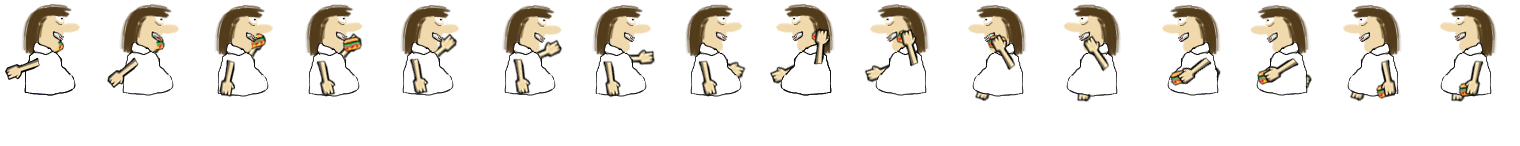
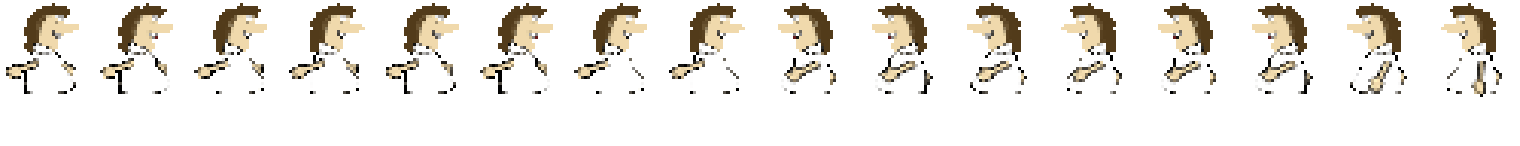
skjutanimation och molotovcocktailskott

diff --git a/DrunkiBoy/DrunkiBoy/Level/Player.cs b/DrunkiBoy/DrunkiBoy/Level/Player.cs
@@ -317,27 +317,33 @@ namespace DrunkiBoy
                 }
                 else //Högeråt
                 {
-                    bulletPos = new Vector2(pos.X + 60, pos.Y + 35);
+                    bulletPos = new Vector2(pos.X + 60, pos.Y + 60);
                     bulletVelocity = new Vector2(10, 0);
                     frame = 0;
                 }
                 switch (currentWeapon)
                 {
                     case weaponType.burger:
-                        texUpperBody = Textures.player_burger_shooting;
+                        texUpperBody = Textures.player_shooting;
                         animateShooting = true;
                         BulletManager.AddBullet(new HamburgareVapen(bulletPos, bulletVelocity));
                     break;
-                    case weaponType.pizza:
-                    BulletManager.AddBullet(new PizzaWeapon(bulletPos, bulletVelocity));
 
+                    case weaponType.pizza:
+                        texUpperBody = Textures.player_shooting;
+                        animateShooting = true;
+                        BulletManager.AddBullet(new PizzaWeapon(bulletPos, bulletVelocity));
                     break;
-                    case weaponType.bottle:                    
-                    BulletManager.AddBullet(new BottleWeapon(bulletPos, bulletVelocity));
+                    case weaponType.bottle:     
+                        texUpperBody = Textures.player_shooting;
+                        animateShooting = true;
+                        BulletManager.AddBullet(new BottleWeapon(bulletPos, bulletVelocity));
 
                     break;
                     case weaponType.molotovCocktail:
-
+                        texUpperBody = Textures.player_shooting;
+                        animateShooting = true;
+                        BulletManager.AddBullet(new MolotovWeapon(bulletPos, bulletVelocity));
                     break;
                 }  
             }
@@ -348,7 +354,7 @@ namespace DrunkiBoy
         /// <param name="spriteBatch"></param>
         public override void Draw(SpriteBatch spriteBatch)
         {
-            spriteBatch.Draw(texLowerBody, pos, srcRectLB, Color.White, 0, Vector2.Zero, 1f, SpriteEffects.None, drawLayer);
+            spriteBatch.Draw(texLowerBody, pos, srcRectLB, Color.White, 0, Vector2.Zero, 1f, SpriteEffects.None, 0);
             spriteBatch.Draw(texUpperBody, pos, srcRect, Color.White, 0, Vector2.Zero, 1f, SpriteEffects.None, drawLayer);
         }   
     }

diff --git a/DrunkiBoy/DrunkiBoy/Textures.cs b/DrunkiBoy/DrunkiBoy/Textures.cs
@@ -9,9 +9,9 @@ namespace DrunkiBoy
 {
     class Textures
     {
-        public static Texture2D player, player_lower_body, player_upper_body, player_burger, player_burger_shooting, player_pizza, player_bottle, player_bottle_molotov;
+        public static Texture2D player, player_lower_body, player_upper_body, player_burger, player_shooting, player_pizza, player_bottle, player_bottle_molotov;
 
-        public static Texture2D platform, background1, background2, deleteCursor, torchTex, Key, heart, bottle, hamburgare, pizza, painkiller, teleport, AktivTeleport, smokeTexture, explosionTexture;
+        public static Texture2D platform, background1, background2, deleteCursor, torchTex, Key, heart, bottle, bottle_molotov, hamburgare, pizza, painkiller, teleport, AktivTeleport, smokeTexture, explosionTexture;
         public static Texture2D healthBarGreen, healthBarRed, healthBarRedBlink, powerUpTimer, testPowerUp, money, pant;
 
         public static List<Texture2D> heartParticles, smokeParticles, starParticles, pantParticles, painkillerParticles, burgerParticles, pizzaParticles, bottleparticles;
@@ -22,7 +22,7 @@ namespace DrunkiBoy
             player_upper_body = content.Load<Texture2D>("Player/player-animation_upper_body");
             player_lower_body = content.Load<Texture2D>("Player/player-animation_lower_body");
             player_burger = content.Load<Texture2D>("Player/player-animation_burger_ub");
-            player_burger_shooting = content.Load<Texture2D>("Player/player-animation_burger_shooting");
+            player_shooting = content.Load<Texture2D>("Player/player-animation_burger_shooting");
             player_pizza = content.Load<Texture2D>("Player/player-animation_pizza_ub");
             player_bottle = content.Load<Texture2D>("Player/player-animation_bottle_ub");
             player_bottle_molotov = content.Load<Texture2D>("Player/player-animation_bottle_molotov_ub");
@@ -34,6 +34,7 @@ namespace DrunkiBoy
             Key = content.Load<Texture2D>("Key");
             heart = content.Load<Texture2D>("Extralif2");
             bottle = content.Load<Texture2D>("flaska");
+            bottle_molotov = content.Load<Texture2D>("bottle_molotov");
             hamburgare = content.Load<Texture2D>("burgare");
             pizza = content.Load<Texture2D>("Pizza");
             painkiller = content.Load<Texture2D>("painkiller");

diff --git a/DrunkiBoy/DrunkiBoy/Level/Bullets/BulletManager.cs b/DrunkiBoy/DrunkiBoy/Level/Bullets/BulletManager.cs
@@ -18,10 +18,7 @@ namespace DrunkiBoy
 
         public static void AddBullet(Bullet bullet)
         {
-           
             bullets.Add(bullet);
-                       
-           
         }
         public static void Update(GameTime gameTime)
         {
@@ -31,7 +28,6 @@ namespace DrunkiBoy
                 bullet.Update(gameTime);
                 if (bullet.isActive == false)
                 {
-                  
                     bullets.Remove(bullet);
                     break;
                 }

diff --git a/DrunkiBoy/DrunkiBoy/Level/Bullets/MolotovWeapon.cs b/DrunkiBoy/DrunkiBoy/Level/Bullets/MolotovWeapon.cs
@@ -1,0 +1,17 @@
+using Microsoft.Xna.Framework;
+using System;
+using System.Collections.Generic;
+using System.Linq;
+using System.Text;
+
+namespace DrunkiBoy
+{
+    class MolotovWeapon : Bullet
+    {
+        public MolotovWeapon(Vector2 pos, Vector2 velocity)
+            : base(pos, velocity, Textures.bottle_molotov, true, 400)
+        {
+            
+        } 
+    }
+}

diff --git a/DrunkiBoy/DrunkiBoy/Level/Bullets/Bullet.cs b/DrunkiBoy/DrunkiBoy/Level/Bullets/Bullet.cs
@@ -31,9 +31,7 @@ namespace DrunkiBoy
             
             if (skottRange <= 0)
             {
-                isActive = false;
-                
-                
+                isActive = false;  
             }
         }
         public override void Draw(SpriteBatch spriteBatch)
